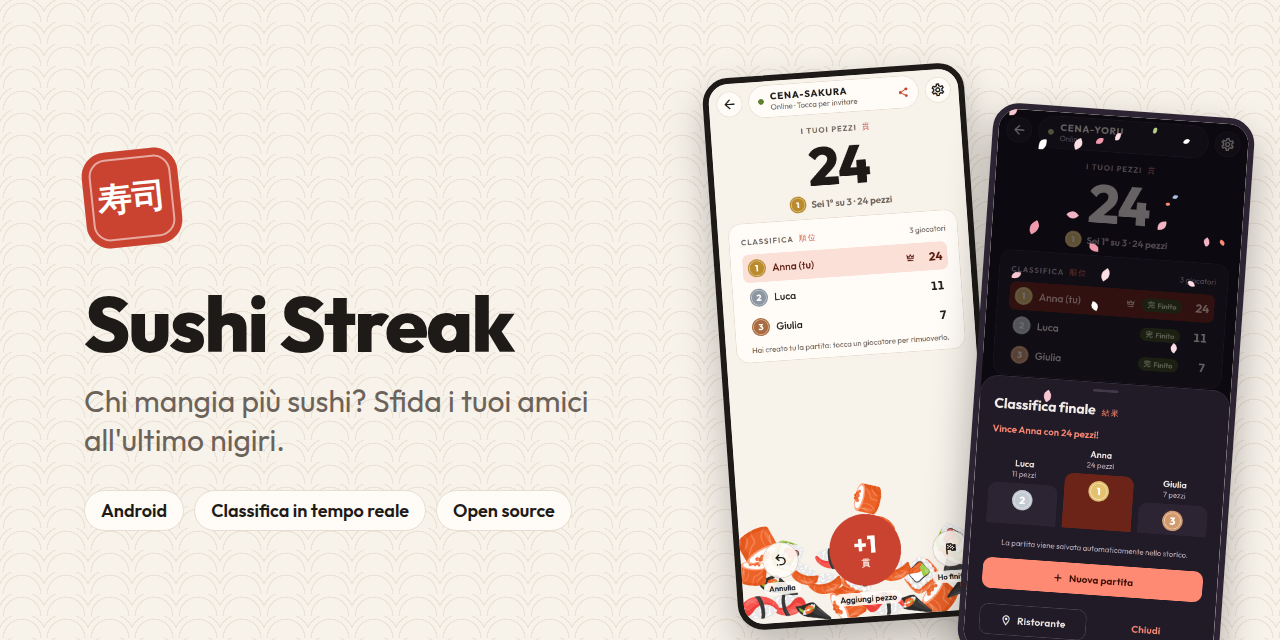
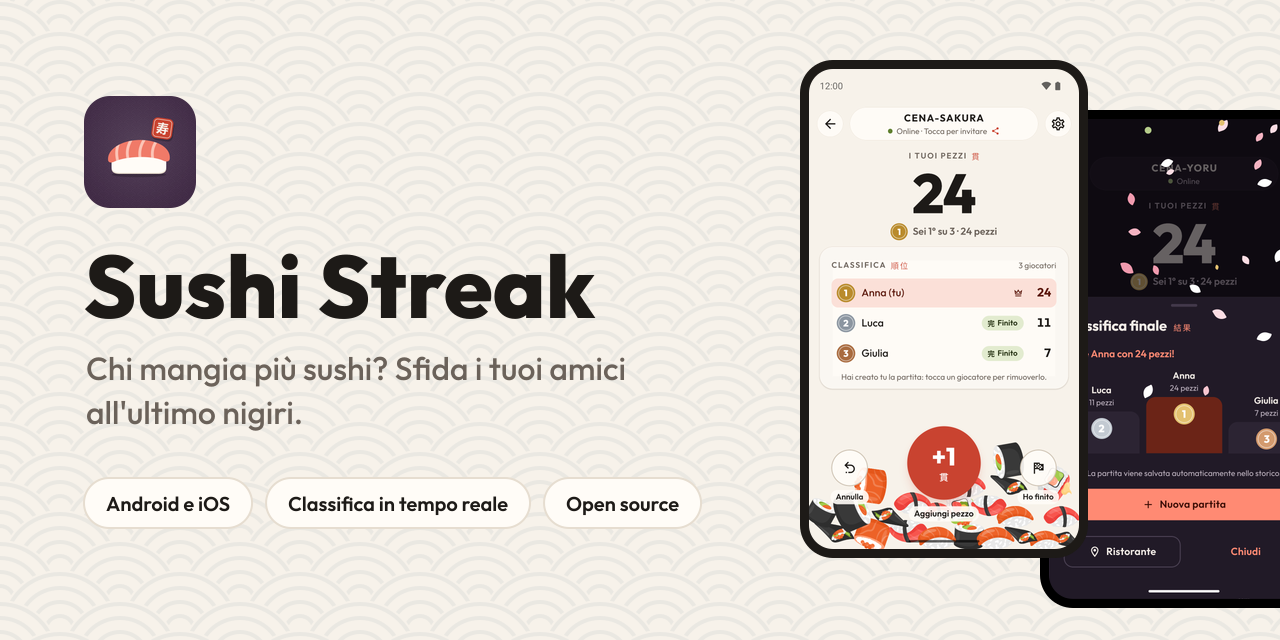
docs: materiale per Google Play e nuove immagini dell'interfaccia
Testi della scheda, 10 screenshot in tema chiaro e scuro, composizioni del
README e immagine social del repository dalla versione 1.6.0.

Changed region(s): [[0.5312, 0.0938, 1.0, 1.0], [0.0625, 0.125, 0.5, 0.7188], [0.0625, 0.75, 0.5312, 0.8438]]

diff --git a/docs/play-store/listing.md b/docs/play-store/listing.md
@@ -1,0 +1,106 @@
+# Scheda Google Play (italiano)
+
+Testi e materiali per la scheda dello store di Sushi Streak nella Play Console (**Crescita → Presenza nello store → Scheda principale dello store**). I limiti di caratteri sono quelli della Play Console, e i conteggi sono verificati.
+
+## Dettagli dell'app
+
+**Nome dell'app** (massimo 30 caratteri)
+
+```text
+Sushi Streak: sfida al sushi
+```
+
+**Descrizione breve** (massimo 80 caratteri)
+
+```text
+Chi mangia più sushi? Conta i pezzi con gli amici in una classifica dal vivo.
+```
+
+**Descrizione completa** (massimo 4000 caratteri)
+
+```text
+Chi mangia più sushi? Sushi Streak trasforma la cena all-you-can-eat in una sfida tra amici: ognuno conta i pezzi che mangia e la classifica si aggiorna in tempo reale sul telefono di tutti.
+
+🍣 COME SI GIOCA
+• Crea una partita e invita gli amici con un link o un codice.
+• Tocca +1 per ogni pezzo mangiato: la tua pila di sushi cresce e la classifica si aggiorna per tutti.
+• Hai sbagliato? "Annulla" toglie l'ultimo pezzo.
+• Quando hai finito tocca "Ho finito". Quando tutti hanno finito compaiono il podio e il vincitore, con una pioggia di petali di ciliegio.
+
+🏆 CLASSIFICA IN TEMPO REALE
+• La tua posizione e il tuo punteggio sempre in primo piano.
+• Chi crea la partita può rimuovere un giocatore entrato per sbaglio.
+• Pareggi gestiti: se si arriva a pari merito vincono tutti.
+
+🎌 UNO STILE GIAPPONESE
+• Interfaccia ispirata ai colori tradizionali: carta washi, vermiglione dei timbri hanko, onde seigaiha.
+• Tema chiaro e scuro, suoni e animazioni fluide.
+• Una pila di sushi animata che cresce a ogni pezzo.
+
+📜 STORICO DELLE CENE
+• Ogni partita viene salvata sul telefono con classifica, durata e ristorante.
+• Riepilogo con partite giocate, pezzi mangiati e il tuo record.
+
+📶 AFFIDABILE
+• Riconnessione automatica se la rete del ristorante va e viene.
+• Se chiudi l'app per sbaglio, riprendi la partita dalla Home.
+
+🔒 SENZA ACCOUNT E SENZA PUBBLICITÀ
+• Nessuna registrazione: basta un nickname.
+• Niente pubblicità, niente tracciamento, niente analytics.
+• I dati delle partite vengono cancellati dal server al massimo 30 giorni dopo la fine; lo storico resta solo sul tuo telefono.
+
+Sushi Streak è open source: il codice è su GitHub (Stevatero/sushi-streak-game).
+
+Mangia responsabilmente: la vera vittoria è una bella serata con gli amici. 🥢
+```
+
+## Note di rilascio (massimo 500 caratteri)
+
+Prima pubblicazione:
+
+```text
+Prima versione su Google Play!
+• Partite in tempo reale con gli amici tramite link o codice
+• Pila di sushi animata, suoni e tema chiaro/scuro
+• Podio finale, pareggi e storico delle cene
+• Riconnessione automatica e ripresa della partita
+```
+
+## Categoria e contatti
+
+| Campo                     | Valore proposto                                                                         |
+| ------------------------- | --------------------------------------------------------------------------------------- |
+| Tipo di app               | Gioco                                                                                   |
+| Categoria                 | Casual (in alternativa, come app: Intrattenimento)                                      |
+| Tag                       | Party, Multigiocatore, Cibo                                                             |
+| Email di contatto         | `stevatero@gmail.com` (uguale a `PRIVACY_CONTACT` del backend)                          |
+| Sito web                  | https://github.com/Stevatero/sushi-streak-game                                          |
+| Informativa sulla privacy | https://sushi.dietalab.net/privacy                                                      |
+| Annunci                   | No, l'app non contiene annunci                                                          |
+| Sicurezza dei dati        | Vedi [DATA_SAFETY.md](../DATA_SAFETY.md)                                                |
+| Classificazione contenuti | Questionario IARC: nessun contenuto sensibile (niente violenza, acquisti o chat libera) |
+| Pubblico di destinazione  | 13 anni e oltre (l'app non è pensata per bambini)                                       |
+
+## Grafica
+
+| Elemento                         | File                                                                 | Requisito Play                    |
+| -------------------------------- | -------------------------------------------------------------------- | --------------------------------- |
+| Icona dell'app                   | [`play-store-icon-512.png`](play-store-icon-512.png)                 | 512×512, PNG a 32 bit             |
+| Grafica in primo piano           | [`feature-graphic.png`](feature-graphic.png)                         | 1024×500, PNG/JPEG senza alfa     |
+| Screenshot del telefono (min. 2) | [`screenshots/`](screenshots/) (tema chiaro e tema scuro, 1080×1920) | 9:16, lato lungo ≤ 2 × lato corto |
+
+Icona e grafica in primo piano si rigenerano con `npm run icons` in `sushi-game-app` (sorgenti in `sushi-game-app/assets/source/`).
+
+### Screenshot
+
+Catturati dall'emulatore Android con la versione 1.6.0 (1080×1920, barra di stato in modalità demo). La Play Console ne accetta fino a 8 per il telefono: si consiglia di caricare i cinque in tema chiaro e tre in tema scuro (07, 09, 10).
+
+| File                                                                                                              | Schermata                                                     |
+| ----------------------------------------------------------------------------------------------------------------- | ------------------------------------------------------------- |
+| [`01-home-chiaro.png`](screenshots/01-home-chiaro.png)                                                            | Home: crea o partecipa a una partita                          |
+| [`02-partita-chiaro.png`](screenshots/02-partita-chiaro.png)                                                      | Partita: punteggio, classifica in tempo reale e pila di sushi |
+| [`03-ho-finito-chiaro.png`](screenshots/03-ho-finito-chiaro.png)                                                  | Conferma "Ho finito" con il riepilogo                         |
+| [`04-podio-chiaro.png`](screenshots/04-podio-chiaro.png)                                                          | Podio finale con i petali di ciliegio                         |
+| [`05-storico-chiaro.png`](screenshots/05-storico-chiaro.png)                                                      | Storico delle cene                                            |
+| [`06-home-scuro.png`](screenshots/06-home-scuro.png) … [`10-storico-scuro.png`](screenshots/10-storico-scuro.png) | Le stesse schermate in tema scuro                             |

diff --git a/docs/RELEASING.md b/docs/RELEASING.md
@@ -139,7 +139,7 @@ Alla prima build `eas build -p ios` chiede di accedere con l'Apple ID e crea cer
 - [ ] Account sviluppatore Google Play e creazione dell'app nella Play Console.
 - [ ] Impostare `PRIVACY_CONTACT` sul backend (email di contatto mostrata nell'informativa).
 - [ ] Impostare `ANDROID_CERT_SHA256` sul backend con l'impronta SHA-256 della **chiave di firma dell'app** (Play Console → Test e rilascio → Integrità dell'app) per verificare gli App Links.
-- [ ] Scheda dello store: descrizione breve e completa, screenshot telefono (almeno 2), grafica in primo piano 1024×500 e icona 512×512 (pronte in [`play-store/feature-graphic.png`](play-store/feature-graphic.png) e [`play-store/play-store-icon-512.png`](play-store/play-store-icon-512.png), generate con `npm run icons`).
+- [ ] Scheda dello store: testi pronti in [`play-store/listing.md`](play-store/listing.md) (nome, descrizione breve e completa, note di rilascio, categoria), screenshot telefono in [`play-store/screenshots/`](play-store/screenshots/), grafica in primo piano 1024×500 e icona 512×512 (pronte in [`play-store/feature-graphic.png`](play-store/feature-graphic.png) e [`play-store/play-store-icon-512.png`](play-store/play-store-icon-512.png), generate con `npm run icons`).
 - [ ] Questionario **Sicurezza dei dati**: vedi [DATA_SAFETY.md](DATA_SAFETY.md).
 - [ ] Classificazione dei contenuti (IARC), pubblico di destinazione, dichiarazione annunci (nessun annuncio).
 - [ ] Per i nuovi account personali: test chiuso con almeno 12 tester per 14 giorni prima dell'accesso alla produzione.

diff --git a/CHANGELOG.md b/CHANGELOG.md
@@ -19,6 +19,11 @@ Aggiornamento a Expo SDK 57.
 - iOS: versione minima 16.4 (da 15.1), richiesta dall'SDK; ciclo di vita a scene di UIKit, necessario per le app compilate con l'SDK di iOS 27.
 - Android invariato: API 24–36.
 
+### Documentazione
+
+- Materiale per la scheda Google Play in `docs/play-store/`: testi (`listing.md`), 10 screenshot in tema chiaro e scuro, grafica in primo piano e icona.
+- Nuove immagini dell'interfaccia nel README e nuova immagine social del repository.
+
 ### Corretto
 
 - Home: tolto il timbro 寿司 sovrapposto all'icona dell'app, che dalla 1.5.0 ha già il suo timbro 寿.

diff --git a/README.md b/README.md
@@ -101,7 +101,7 @@ L'app non richiede registrazione e non contiene pubblicità, analytics o traccia
 ## Design
 
 <p align="center">
-  <img src="docs/screenshots/app-scuro.png" alt="Home, partita, vittoria e impostazioni in tema scuro" width="100%">
+  <img src="docs/screenshots/app-scuro.png" alt="Home, partita, podio finale e storico in tema scuro" width="100%">
 </p>
 
 Un'interfaccia fresca e moderna con un richiamo discreto al Giappone:
